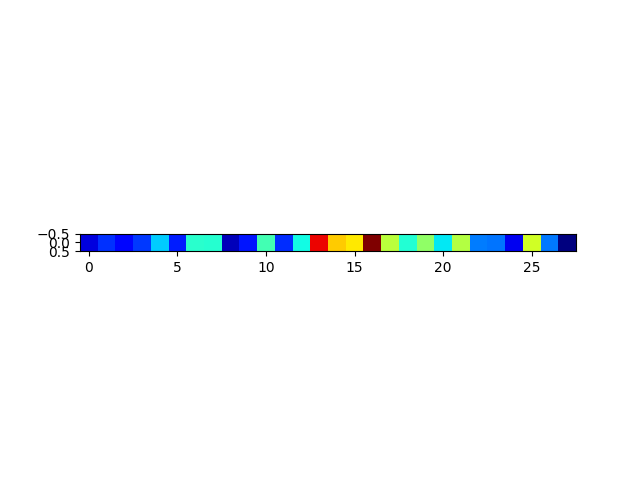
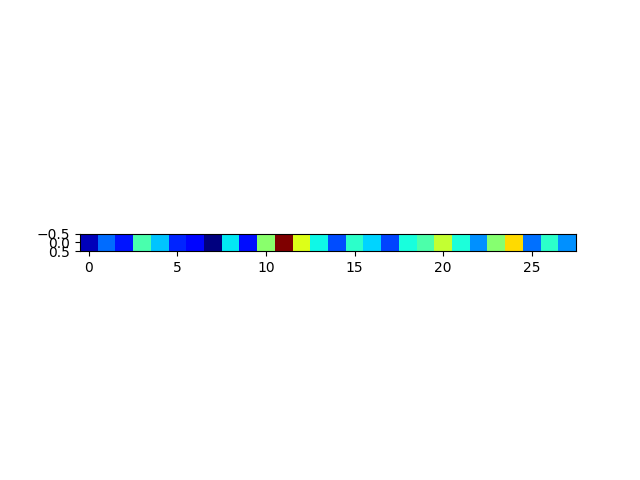
erreur saliency en segment

Changed region(s): [[0.2812, 0.4688, 0.9062, 0.5312], [0.125, 0.4688, 0.25, 0.5312]]

diff --git a/saliency/mnist_saliency.py b/saliency/mnist_saliency.py
@@ -15,6 +15,9 @@ data = tf.keras.datasets.mnist
 x_train_norm = x_train / 255
 x_test_norm = x_test / 255
 
+#---------------------------------------------------------------------------------------------------
+img1 = x_test_norm[1]
+
 
 #---------------------------------------------------------------------------------------------------
 print("Executing : creating mnist model")
@@ -37,7 +40,7 @@ print("Executing : Creating score function")
 
 from tf_keras_vis.utils.scores import CategoricalScore
 
-score = CategoricalScore(y_test[0])
+score = CategoricalScore([y_test[1]])
 
 #---------------------------------------------------------------------------------------------------
 print("Executing : Classic Saliency")
@@ -46,14 +49,16 @@ from keras import backend as K
 from tf_keras_vis.saliency import Saliency
 # from tf_keras_vis.utils import normalize
 
-img = x_test_norm[0]
-img_array = np.array(img)
-
 # Create Saliency object.
 saliency = Saliency(model,
-                    clone=True) 
+                    model_modifier=replace2linear,
+                    clone=True
+)
 
-saliency_map = (score, img_array)
+other_score = y_test[1]
+
+# Generate saliency map
+saliency_map = saliency(score, img1)
 
 plt.imshow(saliency_map, cmap='jet')
 plt.savefig('saliency/images/output/saliency_classic_mnist.png')
